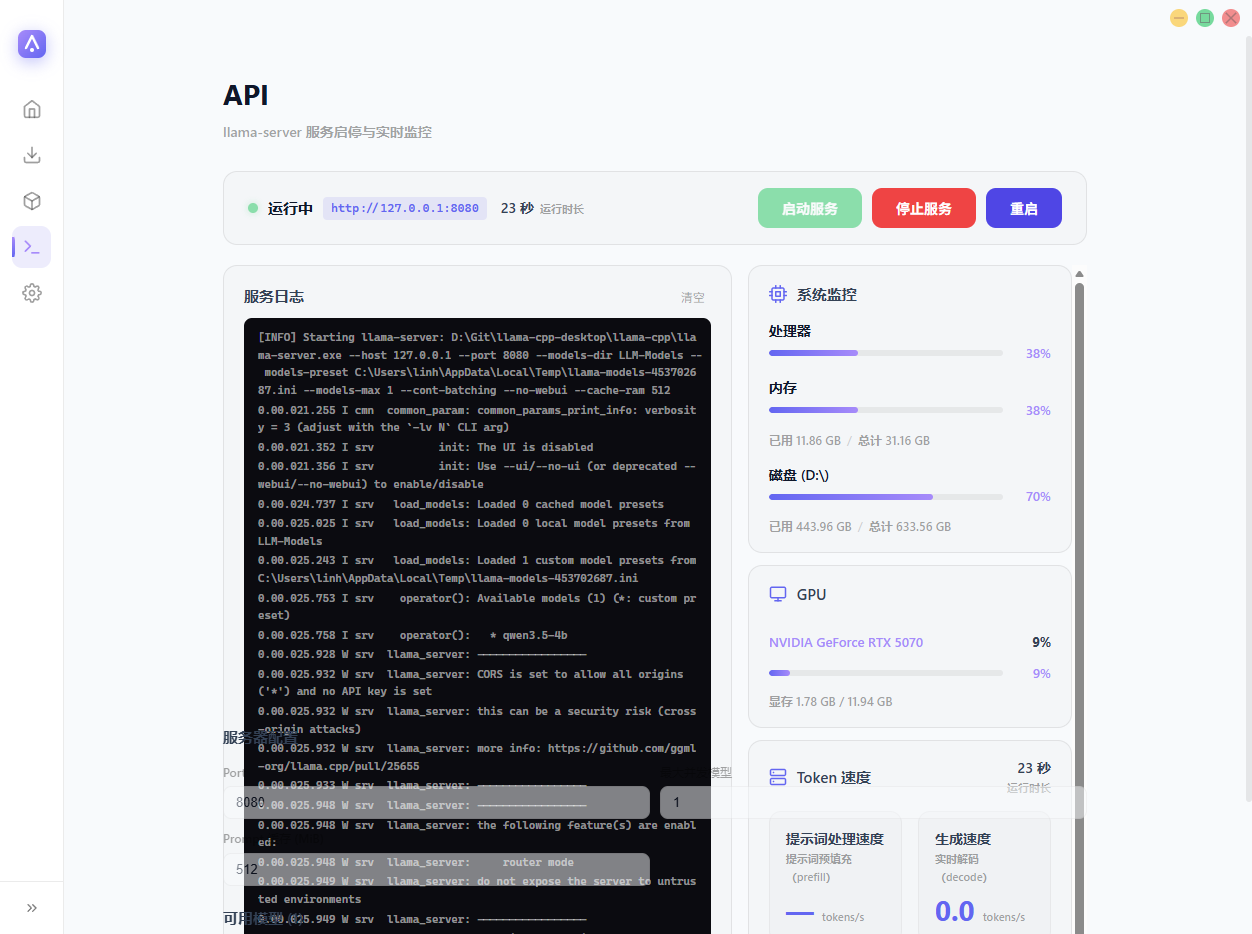
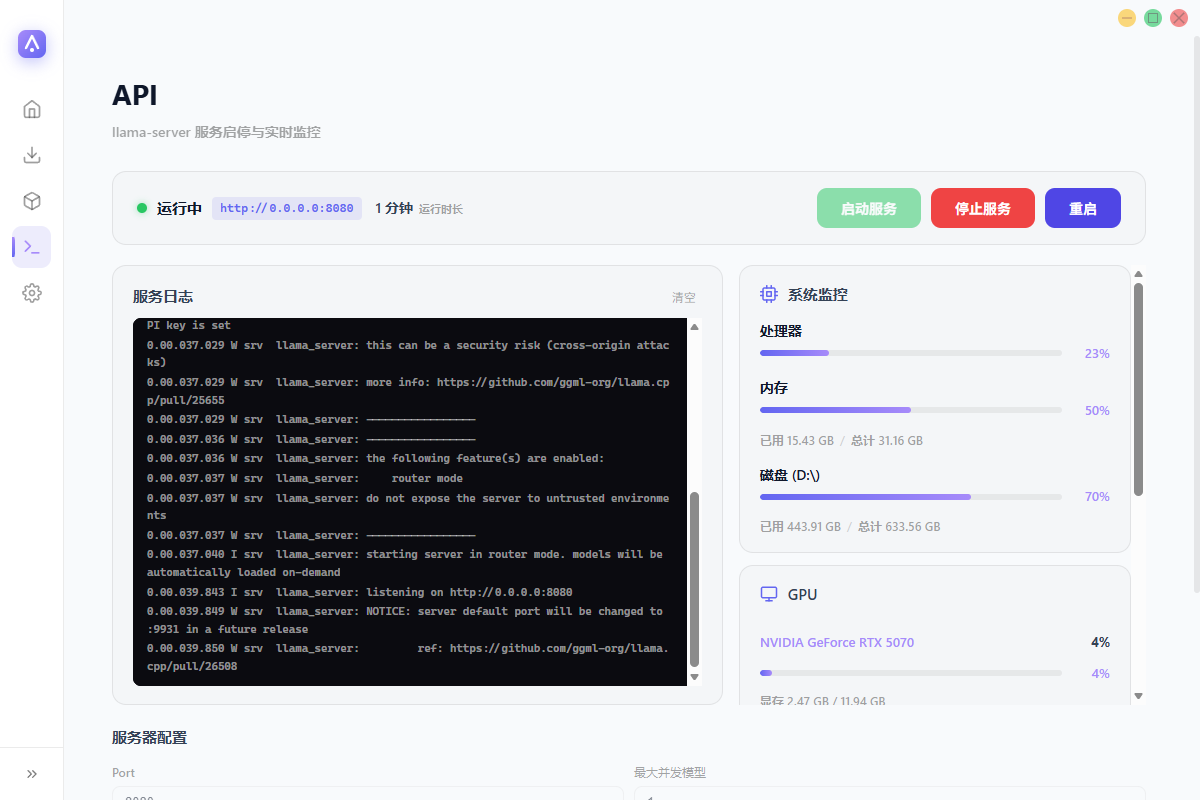
style(frontend): 页面改为流式布局减少两侧留白，截图同步重拍
Summary:
- Frontend: 各视图删除固定 max-width（Home/Downloads/Models/Api 960px、Settings 720px），global.css .page 改为 width:100% + max-width:1280px 居中——内容填满内容区（侧边栏收起时不再有大片留白），超宽窗口上限 1280px 防止行过长；卡片栅格为 1fr 分数布局自动多列化，Api 监控栅格与折线图随容器拉伸
- Docs: 全部 13 张 README 截图按新流式布局重拍（1200×800、侧边栏收起态）

Verification:
- cd frontend && npm run build + npm test（92/92）通过
- 浏览器实测：内容区 1188px 时 .page 占满 99%（两侧仅剩滚动条宽度），主页信息栅格自适应为三列全宽

Remaining gaps:
- None

diff --git a/frontend/src/styles/global.css b/frontend/src/styles/global.css
@@ -114,8 +114,11 @@ code, pre {
   font-family: var(--font-mono);
 }
 
-/* Page content centering */
+/* 流式布局：填满内容区，仅保留 48px 侧距（由各视图 .page 的 padding 提供）；
+   1280px 上限防止超宽窗口下内容行拉得过长 */
 .page {
+  width: 100%;
+  max-width: 1280px;
   margin-left: auto;
   margin-right: auto;
 }

diff --git a/frontend/src/views/Api.vue b/frontend/src/views/Api.vue
@@ -420,8 +420,6 @@ function clearLog() {
 .page {
   /* 顶部内边距已由页头 padding-top 承接（见 global.css .page-header） */
   padding: 0 48px 60px;
-  /* 合并监控区块后放宽到 960px（原 Monitor.vue 宽度），容纳双指标卡与生成速度折线图 */
-  max-width: 960px;
 }
 
 .page-header {

diff --git a/frontend/src/views/Downloads.vue b/frontend/src/views/Downloads.vue
@@ -444,7 +444,6 @@ onUnmounted(() => { if (taskPollTimer) clearInterval(taskPollTimer) })
 .page {
   /* 顶部内边距已由页头 padding-top 承接（见 global.css .page-header） */
   padding: 0 48px 60px;
-  max-width: 960px;
 }
 
 .page-header {

diff --git a/frontend/src/views/Settings.vue b/frontend/src/views/Settings.vue
@@ -330,7 +330,6 @@ async function manualCheck() {
 .page {
   /* 顶部内边距已由页头 padding-top 承接（见 global.css .page-header） */
   padding: 0 48px 60px;
-  max-width: 720px;
 }
 
 .page-header {

diff --git a/frontend/src/views/Home.vue b/frontend/src/views/Home.vue
@@ -481,7 +481,6 @@ onUnmounted(() => {
 .page {
   /* 顶部内边距已由页头 padding-top 承接（见 global.css .page-header） */
   padding: 0 48px 60px;
-  max-width: 960px;
 }
 
 .page-header {

diff --git a/frontend/src/views/Models.vue b/frontend/src/views/Models.vue
@@ -204,7 +204,6 @@ onMounted(() => {
 .page {
   /* 顶部内边距已由页头 padding-top 承接（见 global.css .page-header） */
   padding: 0 48px 60px;
-  max-width: 960px;
 }
 
 .page-header {
